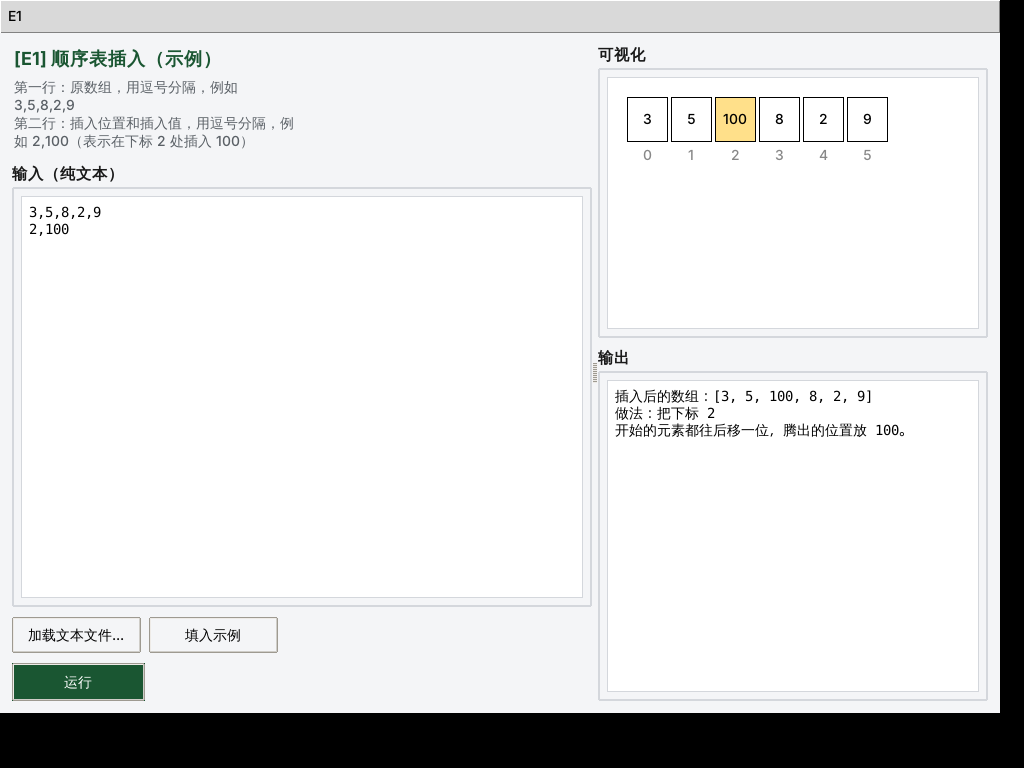
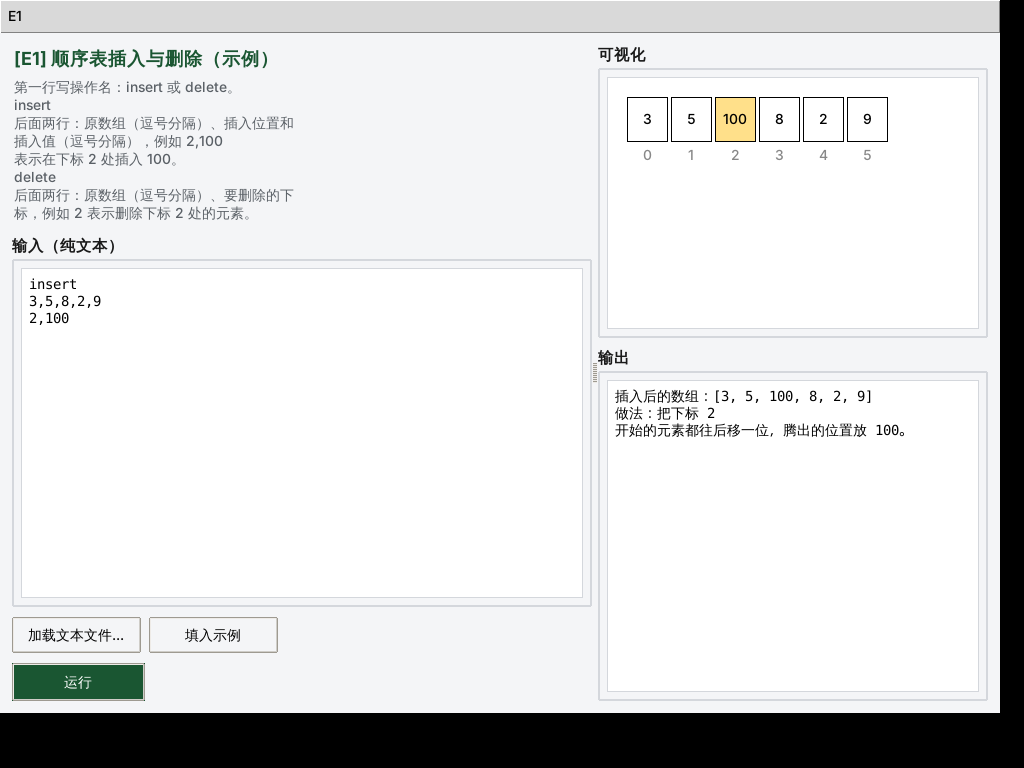
实验一：示例升级为顺序表插入+删除，课后任务改成单链表增删 (#8)
* 用空白模板 + 顺序表插入示例替换组件演示插件

拆分原来的 example_demo（一次性演示所有可视化组件）为两部分：
template/ 是不会被平台加载的空白骨架，供学生复制；
example_insert 是顺序表插入的完整实现，带可视化，供学生参考代码该怎么写。
同步更新三份 README、学生手册和图文讲解页，去掉过于"AI 风格"的装饰样式。

Claude-Session: https://claude.ai/code/session_01H1kom7vkjdaCTMFo3jyyjG

* 简化平台架构：C 版去掉 dlopen/.so，Python 版扁平化目录

C 版插件改为编译时静态注册（__attribute__((constructor))），和核心代码
一起编译成一个可执行文件，不再有 dlopen/dlsym/ABI 版本这些概念，Windows
装 MinGW-w64 即可编译运行，不再需要 WSL。Makefile 从"编译核心 + 逐个插件
编译成 .so"简化成一条 glob 所有源文件的编译命令。

Python 版去掉 core/、ui/ 子目录，loader.py/registry.py 的逻辑合并进
main.py，plugin_base.py/visual.py/app.py 直接放在平台根目录，减少学生
需要理解的目录层级。

同步更新两份 README、学生手册、VSCode 配置指南和图文讲解页。

Claude-Session: https://claude.ai/code/session_01H1kom7vkjdaCTMFo3jyyjG

* 重新设计五次课实验方案，改用更基础的算法主题

去掉原来 KMP+矩阵这次偏难、跟遥感场景强绑定的实验，换成更贴近数据结构
核心内容的五个主题：线性表、栈和队列、树、图、查找与排序，每次课后
任务按 2~3 小时设计，难度点分散成多个小任务（比如树那次拆成遍历和
BST 插入/查找两部分，BST 删除作为选做）。

示例插件的分类编号相应调整：汉诺塔示例作为不计入正式实验的入门演示
（E0），顺序表插入示例对应实验一（E1）。同步更新截图、两份 README、
VSCode 配置指南和图文讲解页里的实验安排表。

Claude-Session: https://claude.ai/code/session_01H1kom7vkjdaCTMFo3jyyjG

* 美化 Python 版界面：ttk 主题 + 分组边框，不再是原生灰色控件

用 ttk 的 clam 主题统一配色（墨绿色强调色，跟文档保持一致），输入/可视化/
输出三块都用 Labelframe 加边框分组，运行按钮用强调色突出主操作，整体
排版更规整。截图同步更新。

Claude-Session: https://claude.ai/code/session_01H1kom7vkjdaCTMFo3jyyjG

* 课程方案改为定题、一实验一插件；入门合并进实验一，去掉汉诺塔示例

去掉所有选做/二选一内容，每次实验的 2~3 个算法都固定下来，统一封装进
同一个插件（一个新菜单项），用输入第一行的算法名区分分支，约定写进
学生手册。环境搭建不再单独占一次课，并入实验一，课后任务就是照着
顺序表插入示例的结构再实现一遍插入和删除，降低第一堂课难度。

汉诺塔递归示例整个移除（Python/C 两版），平台现在只保留顺序表插入
[…]

Changed region(s): [[0.0, 0.0625, 0.2812, 0.4375], [0.5625, 0.3125, 0.5938, 0.3438]]

diff --git a/docs/plugin_platform_guide.html b/docs/plugin_platform_guide.html
@@ -197,7 +197,7 @@ footer{padding:24px 0 40px;color:var(--muted);font-size:14px;}
         <text x="318" y="32" text-anchor="middle" class="lbl">E5</text>
 
         <rect x="20" y="56" width="280" height="304" class="panel"></rect>
-        <text x="34" y="82" class="lbl-b">[E1] 顺序表插入（示例）</text>
+        <text x="34" y="82" class="lbl-b">[E1] 顺序表插入与删除（示例）</text>
         <text x="34" y="102" class="sub">原数组，插入位置和插入值</text>
         <text x="34" y="128" class="lbl">输入（纯文本）：</text>
         <rect x="34" y="136" width="252" height="140" class="inner"></rect>

diff --git a/platform-c/plugins/example_insert/insert_plugin.c b/platform-c/plugins/example_insert/insert_plugin.c
@@ -1,9 +1,10 @@
 /*
- * 示例插件：顺序表（数组）插入。
+ * 示例插件：顺序表（数组）插入与删除。
  *
- * 这是一个完整实现的算法示例，用来演示插件应该写成什么样子——
- * 照着这个结构写自己的插件就行。不知道从哪下手时先看这个文件，
- * 比看 template/ 空模板更直观。
+ * 比较完整的示例，覆盖了插件平台大部分的能力：一行行读文本输入、
+ * 可视化画布（数组方格 + 高亮）、文字结果输出，还演示了"一个插件里
+ * 用输入第一行区分多个算法"这个约定的实际写法——这个约定以后每次
+ * 实验都会用到。照着这个结构写自己的插件就行。
  */
 #include <stdio.h>
 #include <stdlib.h>
@@ -14,29 +15,17 @@
 
 #define MAX_N 64
 
-static void run(void) {
-    char line[256];
+static void do_insert(char *arr_line, char *pos_line) {
     int arr[MAX_N];
     int n = 0;
-
-    printf("请输入原数组，用逗号分隔（例如 3,5,8,2,9）: ");
-    if (!fgets(line, sizeof(line), stdin)) {
-        printf("读取失败\n");
-        return;
-    }
-    char *tok = strtok(line, ",\n");
+    char *tok = strtok(arr_line, ",\n");
     while (tok && n < MAX_N - 1) {   /* 留一个位置给插入的新值 */
         arr[n++] = atoi(tok);
         tok = strtok(NULL, ",\n");
     }
 
-    printf("请输入插入位置和插入值，用逗号分隔（例如 2,100）: ");
-    if (!fgets(line, sizeof(line), stdin)) {
-        printf("读取失败\n");
-        return;
-    }
     int pos, val;
-    if (sscanf(line, "%d,%d", &pos, &val) != 2) {
+    if (sscanf(pos_line, "%d,%d", &pos, &val) != 2) {
         printf("格式不对，应该是“位置,插入值”\n");
         return;
     }
@@ -60,10 +49,83 @@ static void run(void) {
     printf("\n做法：把下标 %d 开始的元素都往后移一位，腾出的位置放 %d。\n", pos, val);
 }
 
+static void do_delete(char *arr_line, char *pos_line) {
+    int arr[MAX_N];
+    int n = 0;
+    char *tok = strtok(arr_line, ",\n");
+    while (tok && n < MAX_N) {
+        arr[n++] = atoi(tok);
+        tok = strtok(NULL, ",\n");
+    }
+
+    int pos;
+    if (sscanf(pos_line, "%d", &pos) != 1) {
+        printf("格式不对，应该是一个下标\n");
+        return;
+    }
+    if (pos < 0 || pos >= n) {
+        printf("删除位置 %d 超出范围，当前数组长度是 %d\n", pos, n);
+        return;
+    }
+
+    printf("\n删除前的数组：\n");
+    vis_draw_array(arr, n, pos);
+    int removed = arr[pos];
+
+    /* 顺序表删除的核心逻辑：
+     * 把 pos 后面的元素依次往前挪一位，覆盖掉 pos 这个位置，长度减一。
+     */
+    for (int i = pos; i < n - 1; i++) {
+        arr[i] = arr[i + 1];
+    }
+    n--;
+
+    printf("\n做法：把下标 %d 后面的元素都往前移一位，覆盖掉 %d，数组长度减一。\n", pos, removed);
+    printf("删除后的数组：\n");
+    vis_draw_array(arr, n, -1);
+}
+
+static void run(void) {
+    char op[32];
+    char arr_line[256];
+    char pos_line[64];
+
+    printf("请输入操作（insert 或 delete）: ");
+    if (!fgets(op, sizeof(op), stdin)) {
+        printf("读取失败\n");
+        return;
+    }
+    op[strcspn(op, "\n")] = '\0';
+
+    printf("请输入原数组，用逗号分隔（例如 3,5,8,2,9）: ");
+    if (!fgets(arr_line, sizeof(arr_line), stdin)) {
+        printf("读取失败\n");
+        return;
+    }
+
+    if (strcmp(op, "insert") == 0) {
+        printf("请输入插入位置和插入值，用逗号分隔（例如 2,100）: ");
+        if (!fgets(pos_line, sizeof(pos_line), stdin)) {
+            printf("读取失败\n");
+            return;
+        }
+        do_insert(arr_line, pos_line);
+    } else if (strcmp(op, "delete") == 0) {
+        printf("请输入要删除的下标（例如 2）: ");
+        if (!fgets(pos_line, sizeof(pos_line), stdin)) {
+            printf("读取失败\n");
+            return;
+        }
+        do_delete(arr_line, pos_line);
+    } else {
+        printf("不认识的操作：%s，只能输入 insert 或 delete\n", op);
+    }
+}
+
 static const PluginInfo info = {
-    .name = "顺序表插入（示例）",
+    .name = "顺序表插入与删除（示例）",
     .category = "E1",
-    .description = "依次输入原数组、插入位置和插入值，演示顺序表插入操作。",
+    .description = "先输入 insert 或 delete 选择操作，再按提示输入数据。",
     .run = run,
 };
 

diff --git a/platform-python/plugins/example_insert/plugin.py b/platform-python/plugins/example_insert/plugin.py
@@ -1,32 +1,44 @@
-"""示例插件：顺序表（数组）插入。
+"""示例插件：顺序表（数组）插入与删除。
 
-这是一个完整实现的算法示例，用来演示插件应该写成什么样子——
-照着这个结构写自己的插件就行。不知道从哪下手时先看这个文件，
-比看 template/ 空模板更直观。
+这是一个比较完整的示例，覆盖了插件平台大部分的界面能力：纯文本输入、
+"填入示例"按钮、可视化画布（数组方格 + 高亮）、文字结果输出，还演示了
+"一个插件里用输入第一行区分多个算法"这个约定的实际写法——这个约定以后
+每次实验都会用到。不知道从哪下手时先看这个文件，比看 template/ 空模板
+更直观。
 """
 
 from plugin_base import Plugin
 
 
-class SeqListInsertPlugin(Plugin):
-    name = "顺序表插入（示例）"
+class SeqListPlugin(Plugin):
+    name = "顺序表插入与删除（示例）"
     category = "E1"
     description = (
-        "第一行：原数组，用逗号分隔，例如 3,5,8,2,9\n"
-        "第二行：插入位置和插入值，用逗号分隔，例如 2,100（表示在下标 2 处插入 100）"
+        "第一行写操作名：insert 或 delete。\n"
+        "insert 后面两行：原数组（逗号分隔）、插入位置和插入值（逗号分隔），例如 2,100 表示在下标 2 处插入 100。\n"
+        "delete 后面两行：原数组（逗号分隔）、要删除的下标，例如 2 表示删除下标 2 处的元素。"
     )
 
     def example_input(self):
-        return "3,5,8,2,9\n2,100"
+        return "insert\n3,5,8,2,9\n2,100"
 
     def run(self, text, vis):
         lines = [line.strip() for line in text.strip().splitlines() if line.strip()]
-        if len(lines) != 2:
-            return "输入格式不对：需要两行，第一行是数组，第二行是“位置,插入值”"
+        if len(lines) != 3:
+            return "输入格式不对：需要三行，第一行是 insert 或 delete，后两行是数据"
 
+        op = lines[0].lower()
+        if op == "insert":
+            return self._insert(lines[1], lines[2], vis)
+        elif op == "delete":
+            return self._delete(lines[1], lines[2], vis)
+        else:
+            return f"不认识的操作：{lines[0]}，第一行只能写 insert 或 delete"
+
+    def _insert(self, arr_line, pos_line, vis):
         try:
-            arr = [int(x) for x in lines[0].split(",")]
-            pos, val = (int(x) for x in lines[1].split(","))
+            arr = [int(x) for x in arr_line.split(",")]
+            pos, val = (int(x) for x in pos_line.split(","))
         except ValueError:
             return "数字格式不对，检查一下逗号和数字有没有打错"
 
@@ -46,4 +58,28 @@ class SeqListInsertPlugin(Plugin):
         return (
             f"插入后的数组：{arr}\n"
             f"做法：把下标 {pos} 开始的元素都往后移一位，腾出的位置放 {val}。"
+        )
+
+    def _delete(self, arr_line, pos_line, vis):
+        try:
+            arr = [int(x) for x in arr_line.split(",")]
+            pos = int(pos_line)
+        except ValueError:
+            return "数字格式不对，检查一下逗号和数字有没有打错"
+
+        if not (0 <= pos < len(arr)):
+            return f"删除位置 {pos} 超出范围，当前数组长度是 {len(arr)}，位置应该在 0 到 {len(arr) - 1} 之间"
+
+        vis.draw_array(arr, highlight={pos})  # 删除前先高亮要删的位置
+        removed = arr[pos]
+
+        # 顺序表删除的核心逻辑：
+        # 把 pos 后面的元素依次往前挪一位，覆盖掉 pos 这个位置，长度减一。
+        for i in range(pos, len(arr) - 1):
+            arr[i] = arr[i + 1]
+        arr.pop()
+
+        return (
+            f"删除后的数组：{arr}\n"
+            f"做法：把下标 {pos} 后面的元素都往前移一位，覆盖掉 {removed}，数组长度减一。"
         )

diff --git a/platform-python/plugin_base.py b/platform-python/plugin_base.py
@@ -10,7 +10,7 @@
 3. 重写 run(text, vis)：自己解析 text，执行算法，可选调用 vis 画图，最后 return 一段字符串。
 
 空白模板在 template/plugin.py，复制改名就能用；完整示例看
-plugins/example_insert/plugin.py（顺序表插入，含可视化）。
+plugins/example_insert/plugin.py（顺序表插入与删除，含可视化）。
 """
 
 

diff --git a/docs/course_design.md b/docs/course_design.md
@@ -7,24 +7,30 @@
 3. 每次实验安排 2~3 个算法，都封装进同一个插件里，用输入内容的第一行指定要跑哪个算法（约定写法见下）。课后任务按 2~3 小时设计，不要求性能优化，不要求复杂的异常处理。
 4. 每次任务都给明确的验收标准和测试用例，不让学生自己猜"做到什么程度算完成"。
 
-**统一的插件输入约定**：一个插件内部有多个算法时，输入的第一行写算法名（英文，比如 `insert`），其余行是这个算法需要的数据。插件 `run()` 里先按第一行判断走哪个分支，再解析剩下的内容。平台自带的 `example_insert` 示例目前只有一个算法，没有体现这个约定，写实验任务时照这个约定扩展即可。
+**统一的插件输入约定**：一个插件内部有多个算法时，输入的第一行写算法名（英文，比如 `insert`），其余行是这个算法需要的数据。插件 `run()` 里先按第一行判断走哪个分支，再解析剩下的内容。平台自带的 `example_insert` 示例已经按这个约定实现了 insert/delete 两个分支，照着它的结构写就行。
 
 ---
 
-## 实验一：环境搭建 + 顺序表（分类 `E1`）
+## 实验一：环境搭建 + 线性表（分类 `E1`）
 
-第一次课把环境搭建和第一次练习合在一起，内容刻意放得比较轻——顺序表插入已经作为示例给出，课后任务是照着同样的结构再写一个，难度不高。
+第一次课把环境搭建和第一次练习合在一起，内容刻意放得比较轻。
+
+**课堂上给的示例**：`example_insert`——顺序表的插入与删除，一个插件两个算法，用输入第一行区分（`insert`/`delete`）。这个示例比较完整，覆盖了平台大部分界面能力：纯文本输入、"填入示例"按钮、可视化画布（数组方格 + 高亮）、文字结果输出，也演示了"一个插件多个算法"这个约定的实际写法。课堂上对照这个示例逐行讲解。
+
+**课后任务**：不是顺序表，是单链表的插入与删除——换一种线性表的实现方式，和示例"同类问题、不同结构"，不能直接照抄示例代码，但思路是现场讲过的，难度不高。不提供参考代码。
 
 **课堂 90 分钟要讲的**
-- 讲 `Plugin` 接口（Python）/ `PluginInfo` 结构体（C）的字段含义，对照平台自带的顺序表插入示例（`example_insert`）逐行走读。
+- 讲 `Plugin` 接口（Python）/ `PluginInfo` 结构体（C）的字段含义，对照 `example_insert` 逐行走读，包括它怎么用输入第一行区分 insert/delete 两个算法。
 - 现场演示新增一个插件目录、改几行代码、重新运行就能在菜单里看到。
+- 顺带讲一下顺序表和链表的区别（插入删除的复杂度、要不要连续内存），为课后任务做铺垫。
 - 分发平台代码，学生当场跑通示例插件，确认编译/运行环境没问题。
 
-**课后任务（2~3 小时，固定内容，两个算法）**
-- 顺序表插入：照着 `example_insert` 的结构自己重新实现一遍（不是复制示例代码，自己写一遍加深理解）。
-- 顺序表删除：在同一个插件里新增这个分支，删除指定下标的元素。
+**课后任务（2~3 小时，固定内容，两个算法，封装进一个插件）**
+- 单链表插入：在指定位置插入一个新节点。
+- 单链表删除：删除指定位置的节点。
+- 两个算法用输入第一行区分（约定同上），不要求可视化（链表的指针关系用现有的三种画法都不好表示，不强制）。
 
-**验收标准**：新建一个插件目录，菜单里出现一个新的分类 `E1`（和示例的 `E1` 用不同的插件名区分）；插入、删除各给一组测试用例（含空表、删除越界这两种边界），结果和预期一致，不崩溃。
+**验收标准**：新建一个插件目录，菜单里出现一个新的 `E1` 条目（和示例用不同的插件名区分）；插入、删除各给一组测试用例（含空链表、删除越界这两种边界），结果和预期一致，不崩溃。
 
 ---
 

diff --git a/docs/student_manual.md b/docs/student_manual.md
@@ -14,7 +14,7 @@
 
 平台里其余的文件（`main.py`、`app.py`、`plugin_base.py`、`visual.py`，C 版对应 `main.c`、`menu_ui.c`、`plugin_registry.c`、`plugin.h`、`visual.h`）不用打开。
 
-不知道代码应该写成什么样子，可以先看 `plugins/example_insert/`，这是一个完整实现的例子（顺序表插入），照着这个结构写就行。
+不知道代码应该写成什么样子，可以先看 `plugins/example_insert/`，这是一个比较完整的例子（顺序表插入与删除），照着这个结构写就行。
 
 每次实验的要求是固定的，不设选做题；每次实验对应一个新插件、菜单里的一个新按钮。如果一次实验要求实现 2~3 个算法，这几个算法都写进同一个插件里，用输入的第一行写算法名（比如 `insert`）来区分走哪个分支，具体要求见 `course_design.md`。
 
@@ -27,7 +27,7 @@ platform-python/
   plugin_base.py                  Plugin 基类
   visual.py                       可视化工具
   template/plugin.py              空白模板，复制它去 plugins/ 下新建自己的插件
-  plugins/example_insert/plugin.py     完整示例：顺序表插入
+  plugins/example_insert/plugin.py     完整示例：顺序表插入与删除
   plugins/<你的插件目录>/plugin.py
 
 platform-c/
@@ -37,7 +37,7 @@ platform-c/
   plugin.h                        插件接口定义
   visual.h                        可视化工具，直接 #include 使用
   template/plugin_template.c      空白模板，复制它去 plugins/ 下新建自己的插件
-  plugins/example_insert/insert_plugin.c       完整示例：顺序表插入
+  plugins/example_insert/insert_plugin.c       完整示例：顺序表插入与删除
   plugins/<你的插件目录>/xxx.c
   Makefile
 ```

diff --git a/platform-c/README.md b/platform-c/README.md
@@ -13,13 +13,14 @@ make run
 
 ```
 ============ 数据结构实验插件平台（C） ============
-  [1] 顺序表插入（示例） (E1)
+  [1] 顺序表插入与删除（示例） (E1)
   [0] 退出
 请输入编号: 1
 
--- 顺序表插入（示例） --
-依次输入原数组、插入位置和插入值，演示顺序表插入操作。
+-- 顺序表插入与删除（示例） --
+先输入 insert 或 delete 选择操作，再按提示输入数据。
 
+请输入操作（insert 或 delete）: insert
 请输入原数组，用逗号分隔（例如 3,5,8,2,9）: 3,5,8,2,9
 请输入插入位置和插入值，用逗号分隔（例如 2,100）: 2,100
 
@@ -34,4 +35,4 @@ make run
 插件接口规范、怎么写自己的插件，看 [`../docs/student_manual.md`](../docs/student_manual.md)；平台内部原理看 [`../docs/architecture.md`](../docs/architecture.md)。
 
 新插件从空白模板开始：[`template/plugin_template.c`](template/plugin_template.c)，复制到 `plugins/` 下改个名字即可。
-不知道代码该怎么写，先看完整示例：[`plugins/example_insert/insert_plugin.c`](plugins/example_insert/insert_plugin.c)（顺序表插入，含可视化）。
+不知道代码该怎么写，先看完整示例：[`plugins/example_insert/insert_plugin.c`](plugins/example_insert/insert_plugin.c)（顺序表插入与删除，含可视化）。

diff --git a/platform-python/README.md b/platform-python/README.md
@@ -16,4 +16,4 @@ python3 main.py
 插件接口规范、怎么写自己的插件，看 [`../docs/student_manual.md`](../docs/student_manual.md)；平台内部原理看 [`../docs/architecture.md`](../docs/architecture.md)。
 
 新插件从空白模板开始：[`template/plugin.py`](template/plugin.py)，复制到 `plugins/` 下改个名字即可。
-不知道代码该怎么写，先看完整示例：[`plugins/example_insert/plugin.py`](plugins/example_insert/plugin.py)（顺序表插入，含可视化）。
+不知道代码该怎么写，先看完整示例：[`plugins/example_insert/plugin.py`](plugins/example_insert/plugin.py)（顺序表插入与删除，含可视化）。

diff --git a/README.md b/README.md
@@ -12,7 +12,7 @@
 - Python 平台代码：[`platform-python/`](platform-python/)
 - C 平台代码：[`platform-c/`](platform-c/)
 
-两版平台都带一个空白模板（`template/`，复制去写自己的插件）和一个完整示例：`plugins/example_insert`（顺序表插入，含可视化）。
+两版平台都带一个空白模板（`template/`，复制去写自己的插件）和一个完整示例：`plugins/example_insert`（顺序表插入与删除，含可视化）。
 
 ## 界面预览（Python 版）
 

diff --git a/docs/getting_started.md b/docs/getting_started.md
@@ -56,7 +56,7 @@ Python 版和 C 版选一个就行，不用两个都装。拿不准选哪个：P
 **C 版**（文字菜单，直接在 VSCode 下方终端里看到）：
 ```
 ============ 数据结构实验插件平台（C） ============
-  [1] 顺序表插入（示例） (E1)
+  [1] 顺序表插入与删除（示例） (E1)
   [0] 退出
 请输入编号:
 ```
